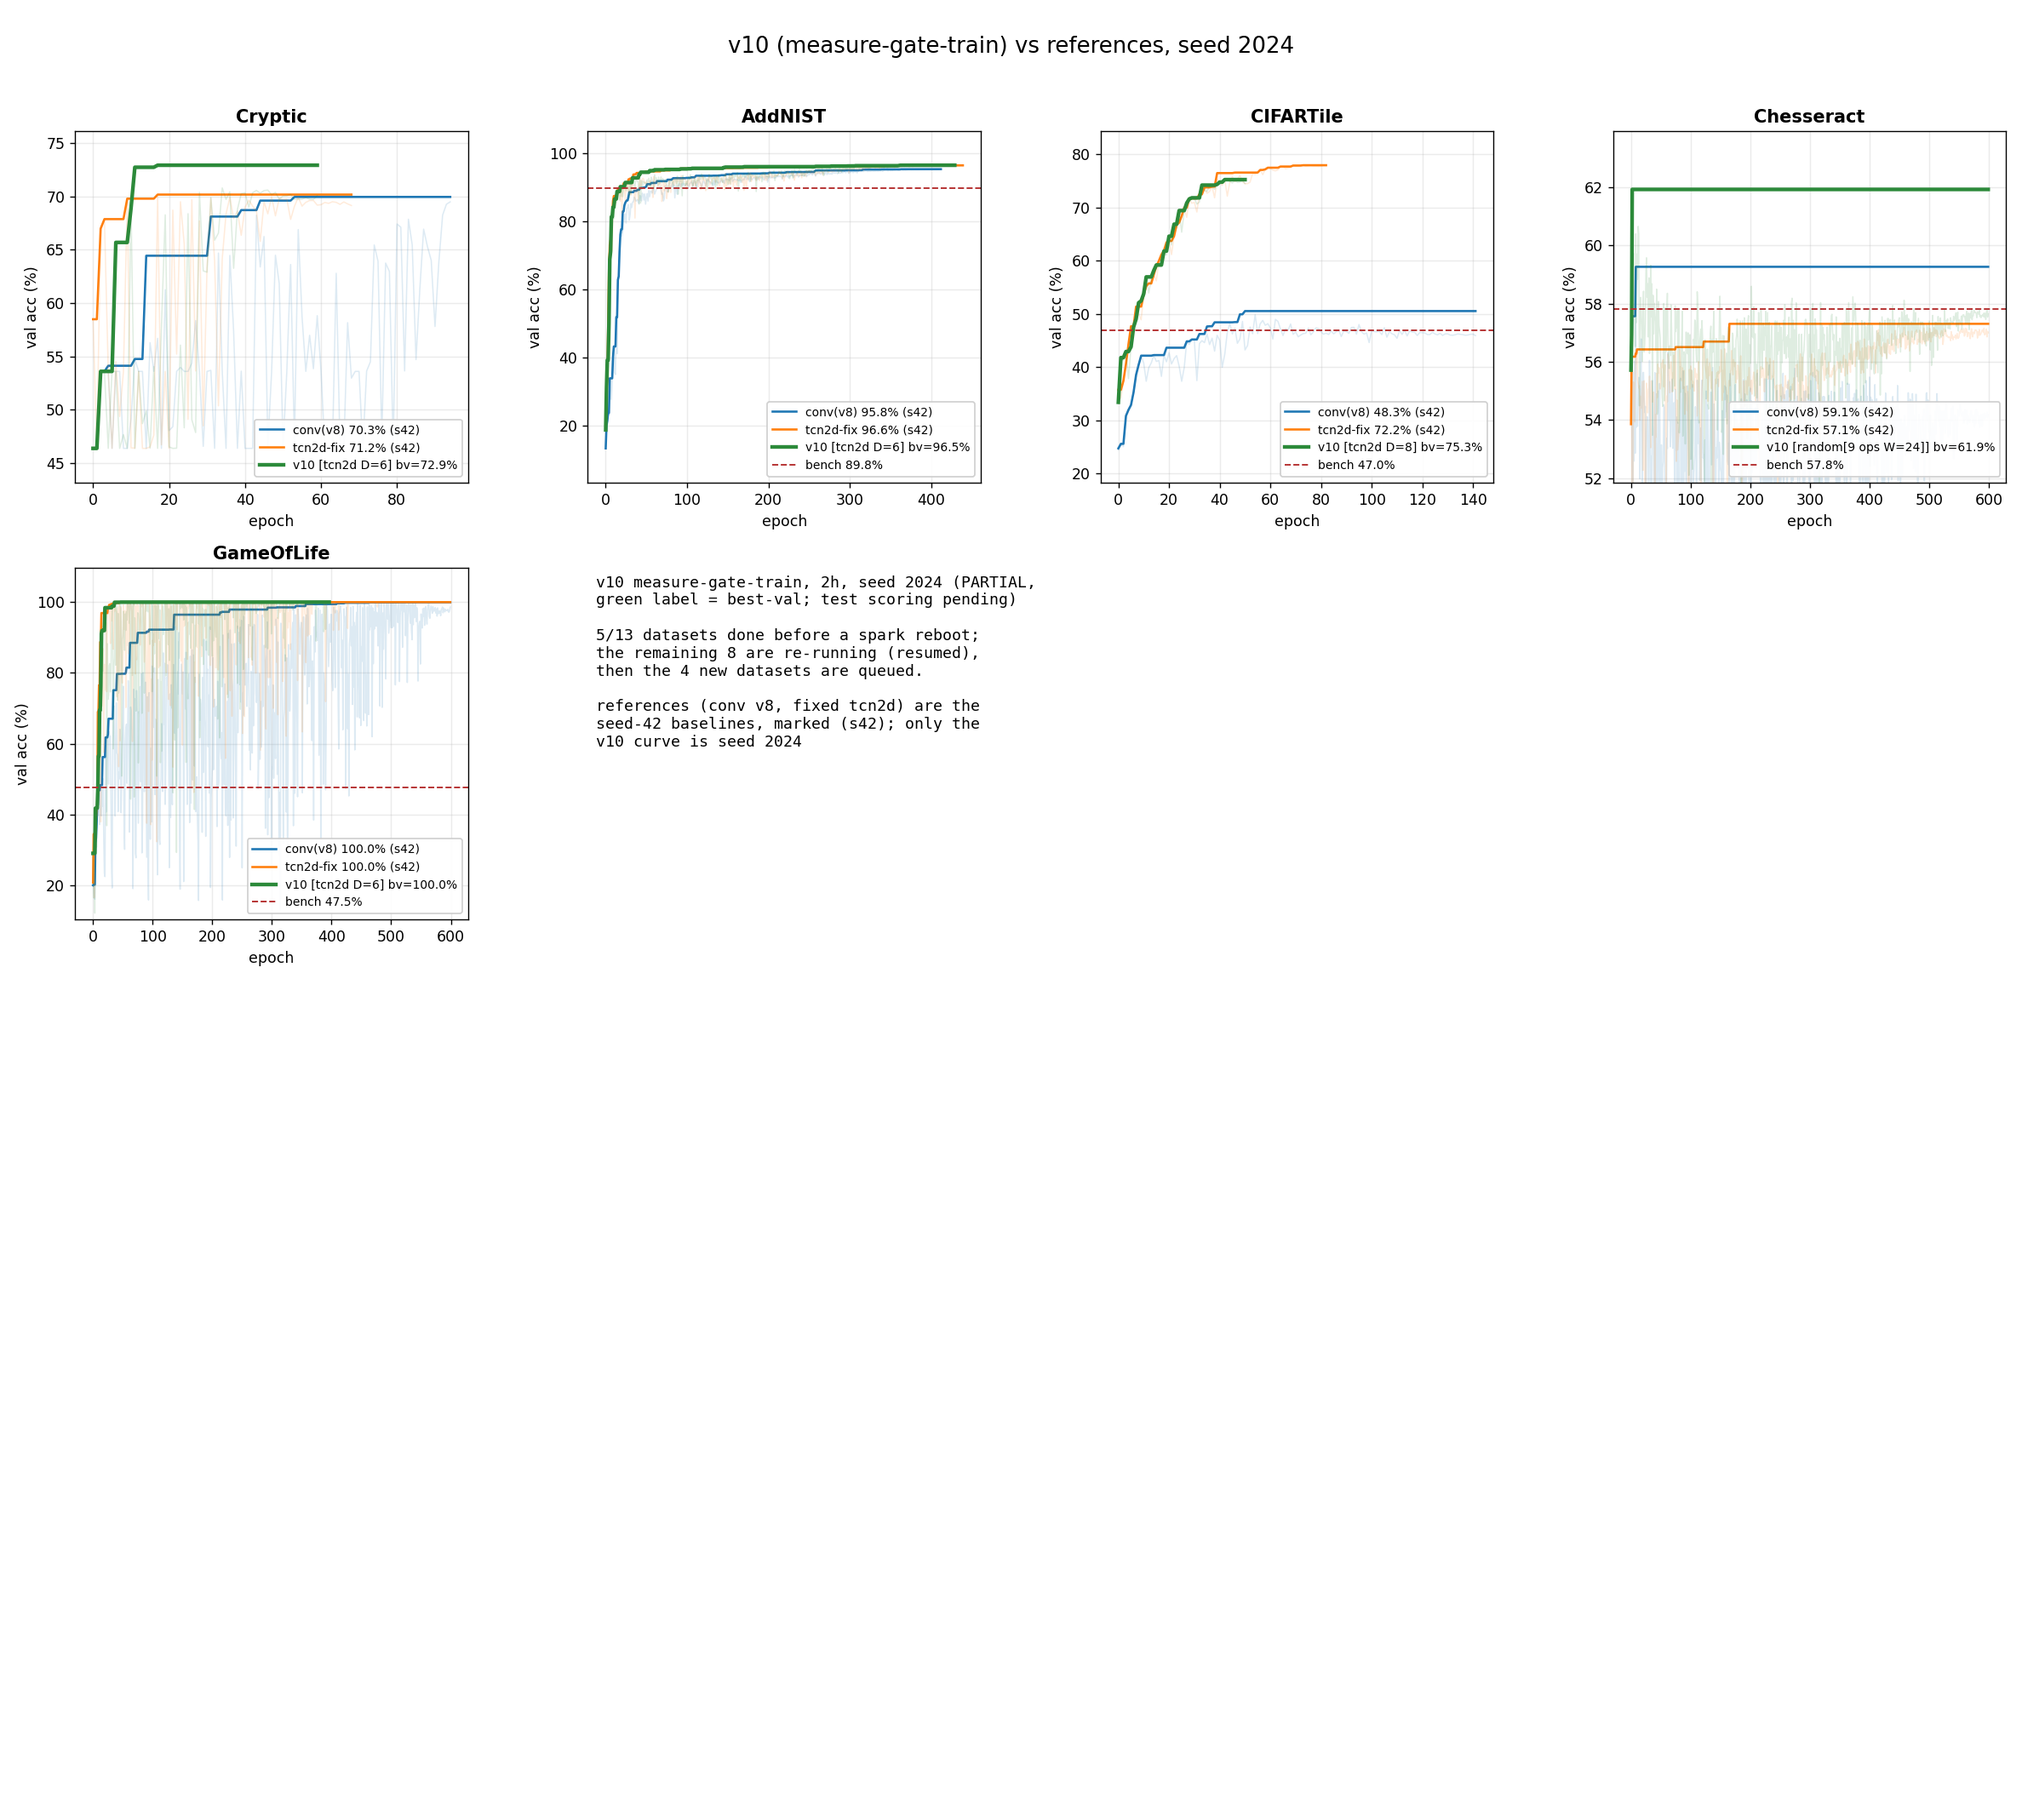
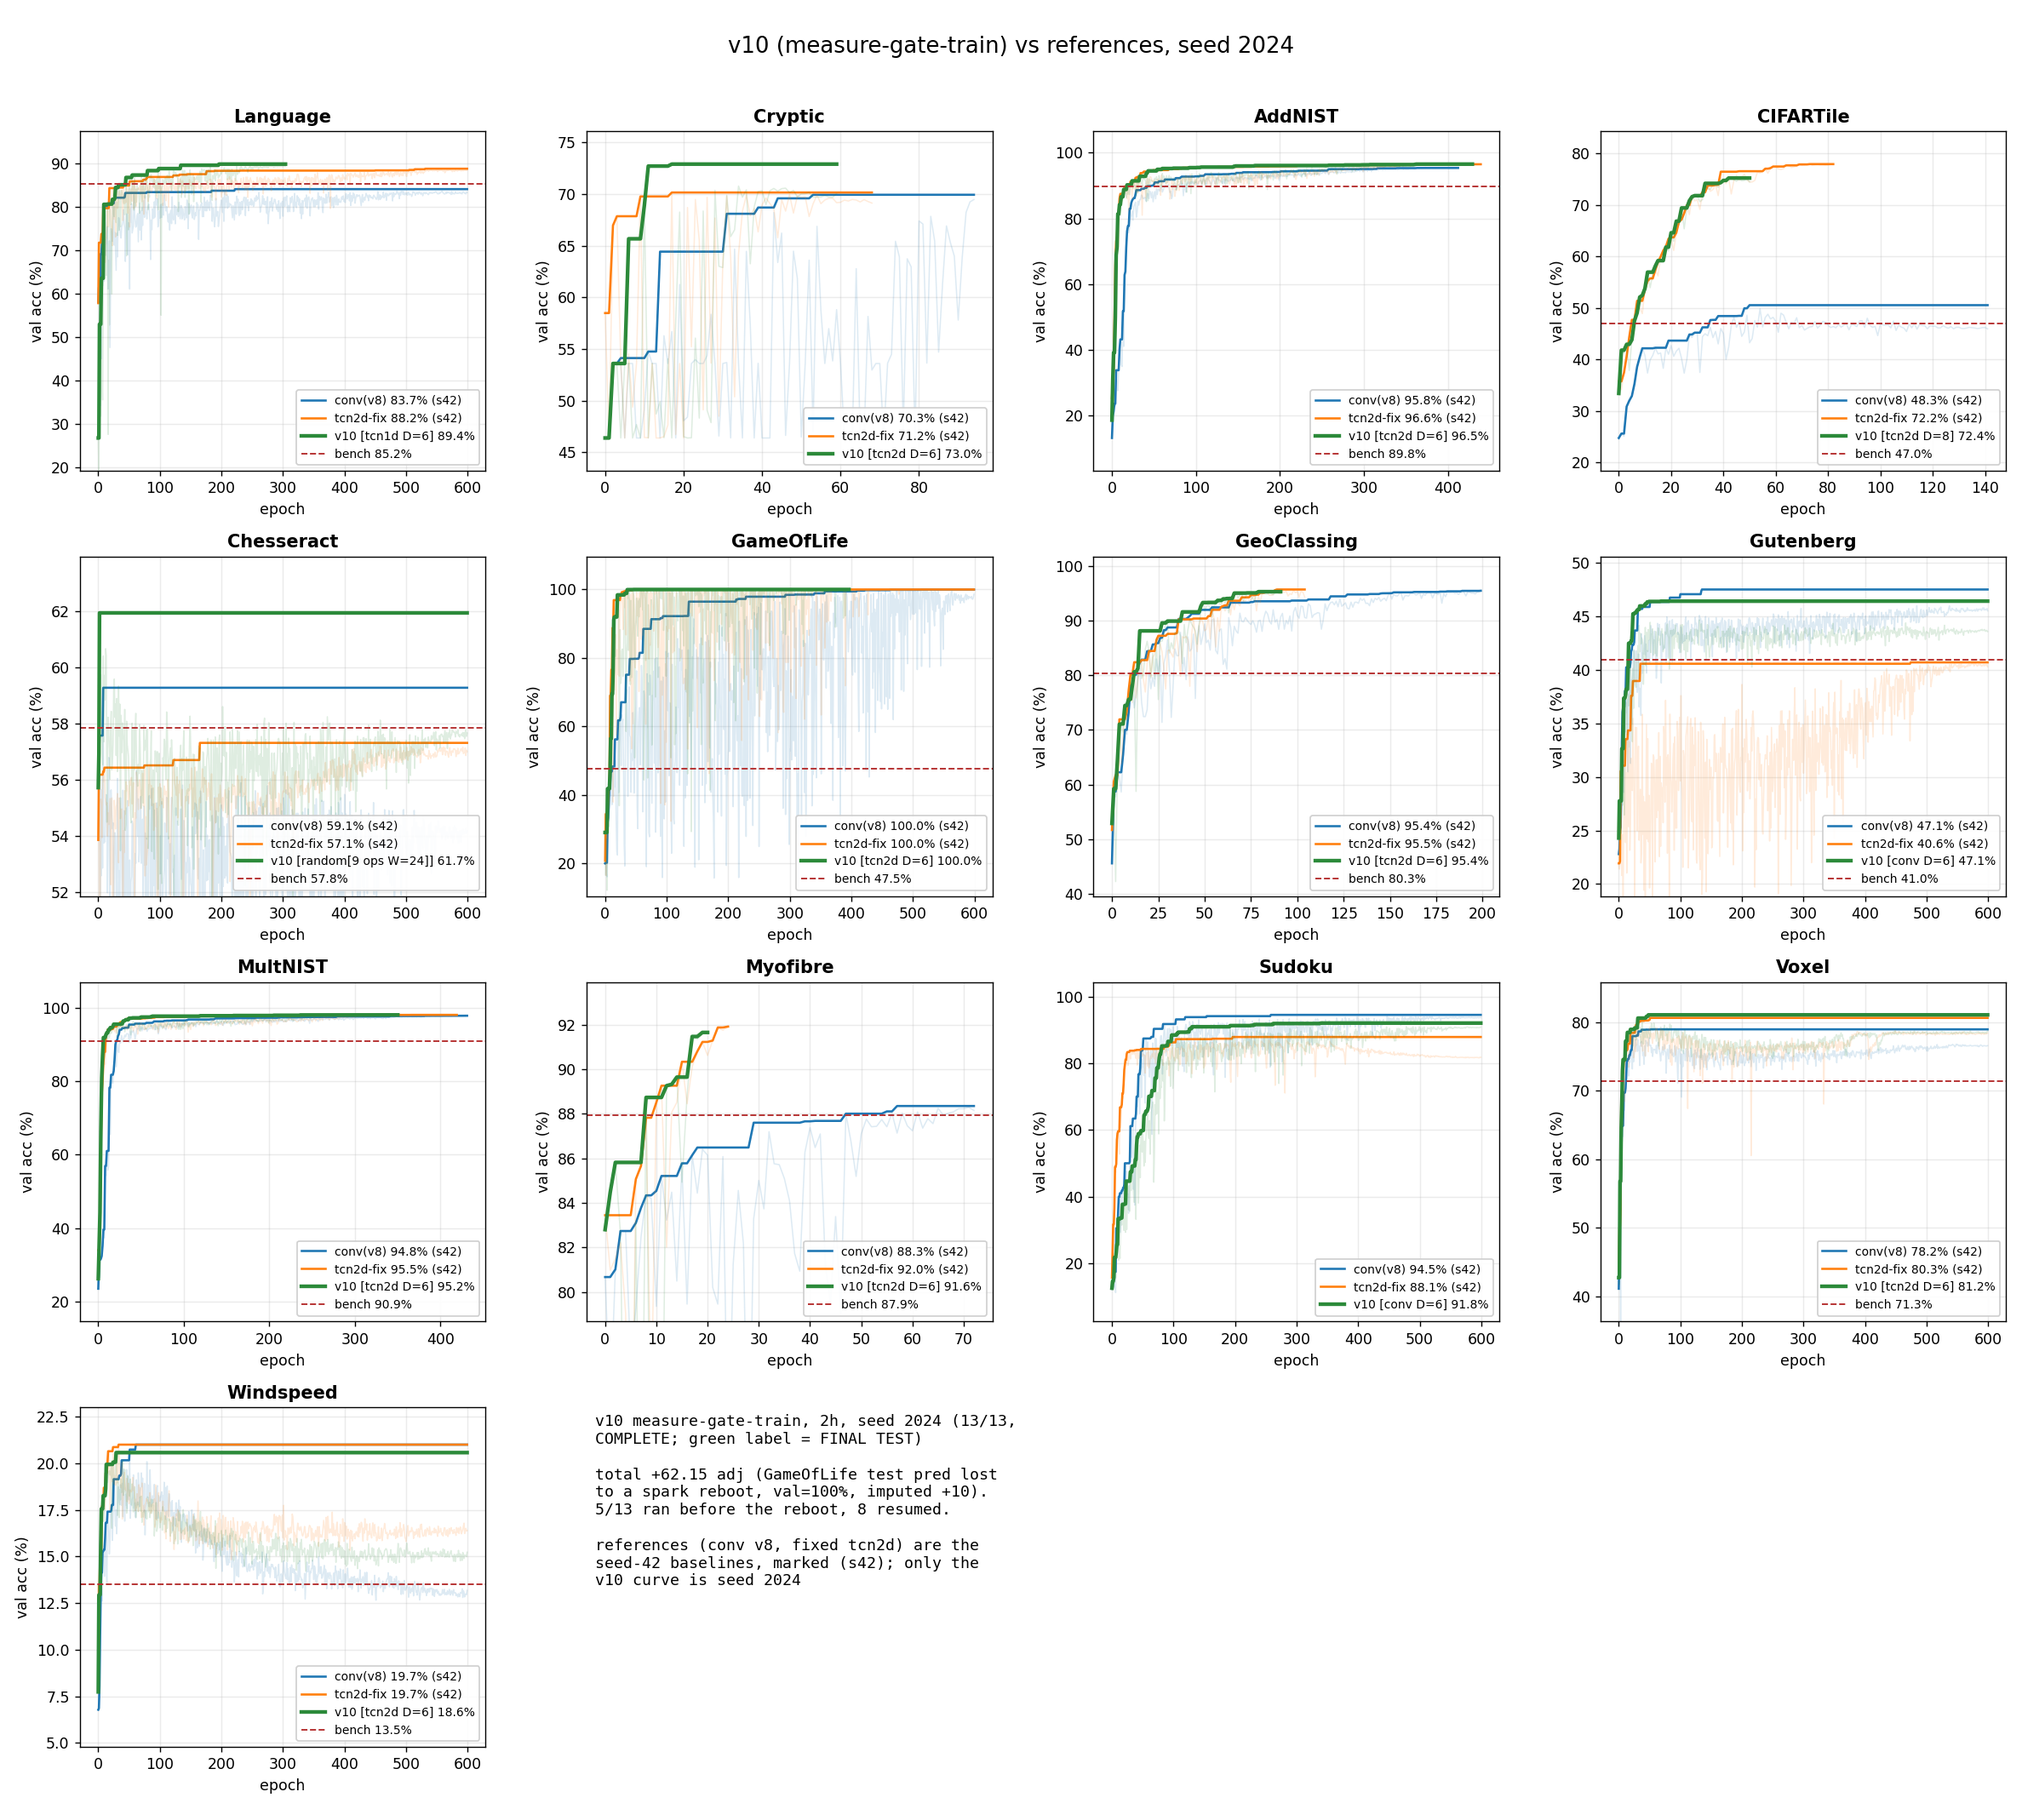
v10 main sweep complete (3 seeds, +62.23±0.19): aggregated variance graph + per-seed grids with final-test labels; Run State verdict. Note GameOfLife s2024 pred lost to reboot (imputed)

diff --git a/dev/plot_v10_aggregate.py b/dev/plot_v10_aggregate.py
@@ -1,0 +1,81 @@
+#!/usr/bin/env python3
+"""Aggregated v10 result across the 3 seeds (42/1337/2024): per-dataset
+adjusted score with variance marked (mean, +/- std, and the individual seed
+points), plus the 3-seed total. Adjusted score = (raw - benchmark) * 10 /
+(100 - benchmark), the competition metric.
+
+Numbers are the scored test results (dev/mock_harness scoring) of the main
+v10 2h sweep. GameOfLife s2024's prediction was lost to a spark reboot
+between training and predict (its own val hit 100%); imputed +10.0 from the
+other two seeds' 100% test and flagged.
+"""
+from pathlib import Path
+import numpy as np
+import matplotlib
+matplotlib.use("Agg")
+import matplotlib.pyplot as plt
+
+REPO = Path(__file__).resolve().parent.parent
+OUT = REPO / "docs/notes/09 - Implementation/implementation/images/pipeline/v10_aggregate_3seed.png"
+
+SEEDS = ["42", "1337", "2024"]
+# adjusted score per dataset, [s42, s1337, s2024]
+ADJ = {
+    "AddNIST":     [6.384, 5.862, 6.581],
+    "CIFARTile":   [5.028, 5.143, 4.797],
+    "Chesseract":  [-0.040, 1.534, 0.915],
+    "Cryptic":     [7.425, 6.902, 7.296],
+    "GameOfLife":  [10.000, 9.998, 10.000],  # s2024 imputed (pred lost to reboot)
+    "GeoClassing": [7.641, 7.781, 7.647],
+    "Gutenberg":   [1.068, 1.014, 1.037],
+    "Language":    [3.264, 3.345, 2.838],
+    "MultNIST":    [5.093, 4.721, 4.797],
+    "Myofibre":    [2.617, 3.020, 3.020],
+    "Sudoku":      [9.770, 8.614, 9.183],
+    "Voxel":       [3.564, 3.312, 3.438],
+    "Windspeed":   [0.678, 0.811, 0.596],
+}
+IMPUTED = {"GameOfLife"}  # mark on the plot
+
+items = sorted(ADJ.items(), key=lambda kv: np.mean(kv[1]), reverse=True)
+names = [k for k, _ in items]
+means = np.array([np.mean(v) for _, v in items])
+stds = np.array([np.std(v, ddof=0) for _, v in items])
+y = np.arange(len(names))
+
+fig, ax = plt.subplots(figsize=(11, 8))
+ax.barh(y, means, color="#2c8a3a", alpha=0.30, height=0.66, zorder=1)
+ax.errorbar(means, y, xerr=stds, fmt="none", ecolor="#1f5f28",
+            elinewidth=2, capsize=5, zorder=3)
+# individual seed points
+markers = {"42": "o", "1337": "s", "2024": "^"}
+colors = {"42": "#1f77b4", "1337": "#ff7f0e", "2024": "#9467bd"}
+for si, s in enumerate(SEEDS):
+    xs = [ADJ[n][si] for n in names]
+    ax.scatter(xs, y, marker=markers[s], s=34, color=colors[s], zorder=4,
+               label=f"seed {s}", edgecolor="white", linewidth=0.5)
+for i, n in enumerate(names):
+    tag = " *" if n in IMPUTED else ""
+    ax.text(means[i] + stds[i] + 0.15, i,
+            f"{means[i]:.2f}±{stds[i]:.2f}{tag}", va="center", fontsize=8.5)
+
+ax.set_yticks(y); ax.set_yticklabels(names, fontsize=10)
+ax.invert_yaxis()
+ax.set_xlabel("adjusted score  (raw - ResNet18 benchmark, rescaled to 0-10)", fontsize=10)
+ax.set_xlim(-1.2, 11.6)
+ax.axvline(0, color="#888", linewidth=0.8)
+ax.grid(axis="x", alpha=0.25)
+ax.legend(loc="lower right", fontsize=9, framealpha=0.95)
+
+totals = [sum(ADJ[n][si] for n in ADJ) for si in range(3)]
+tmean, tstd = np.mean(totals), np.std(totals, ddof=0)
+ax.set_title(
+    "v10 (measure-gate-train): aggregated 3-seed adjusted score per dataset\n"
+    f"total per seed: s42 {totals[0]:+.2f}  s1337 {totals[1]:+.2f}  "
+    f"s2024 {totals[2]:+.2f}  ->  mean {tmean:+.2f} ± {tstd:.2f}   "
+    "(* GameOfLife s2024 imputed: pred lost to reboot, val=100%)",
+    fontsize=11)
+fig.tight_layout()
+fig.savefig(OUT, dpi=140)
+print(f"wrote {OUT}")
+print(f"total per seed: {[round(t,2) for t in totals]}  mean {tmean:.2f} +/- {tstd:.2f}")

diff --git a/dev/plot_v10_grid.py b/dev/plot_v10_grid.py
@@ -35,13 +35,24 @@ DATASETS = [
     ("Windspeed",   "windspeed", 13.492, 19.74, 19.74),
 ]
 
-# v10 FINAL test raw per seed (only seeds that finished scoring)
+# v10 FINAL test raw per seed (all three seeds scored)
 V10_TEST = {
     "42": {"Adaline": 96.33, "Caitie": 73.65, "Chester": 57.66,
            "Cryptic": 74.25, "conway": 100.00, "Sadie": 95.36,
            "Gutenberg": 47.28, "LaMelo": 90.03, "Mateo": 95.52,
            "Myopia": 91.09, "Sokoto": 97.70, "Volga": 81.56,
            "windspeed": 19.36},
+    "1337": {"Adaline": 95.80, "Caitie": 74.26, "Chester": 64.30,
+             "Cryptic": 69.02, "conway": 99.99, "Sadie": 95.63,
+             "Gutenberg": 46.97, "LaMelo": 90.15, "Mateo": 95.18,
+             "Myopia": 91.57, "Sokoto": 86.14, "Volga": 80.84,
+             "windspeed": 20.51},
+    # s2024: conway test pred lost to reboot (val=100%); shown imputed 100.0
+    "2024": {"Adaline": 96.53, "Caitie": 72.43, "Chester": 61.69,
+             "Cryptic": 72.96, "conway": 100.00, "Sadie": 95.37,
+             "Gutenberg": 47.10, "LaMelo": 89.40, "Mateo": 95.25,
+             "Myopia": 91.57, "Sokoto": 91.83, "Volga": 81.20,
+             "windspeed": 18.65},
 }
 
 SUMMARY = {
@@ -51,24 +62,22 @@ SUMMARY = {
            "  conv (v8)     +48.2\n"
            "  tcn2d fixed   +59.2\n"
            "  v10           +62.49  (all-time best)"),
-    "2024": ("v10 measure-gate-train, 2h, seed 2024 (PARTIAL,\n"
-             "green label = best-val; test scoring pending)\n\n"
-             "5/13 datasets done before a spark reboot;\n"
-             "the remaining 8 are re-running (resumed),\n"
-             "then the 4 new datasets are queued.\n\n"
+    "2024": ("v10 measure-gate-train, 2h, seed 2024 (13/13,\n"
+             "COMPLETE; green label = FINAL TEST)\n\n"
+             "total +62.15 adj (GameOfLife test pred lost\n"
+             "to a spark reboot, val=100%, imputed +10).\n"
+             "5/13 ran before the reboot, 8 resumed.\n\n"
              "references (conv v8, fixed tcn2d) are the\n"
              "seed-42 baselines, marked (s42); only the\n"
              "v10 curve is seed 2024"),
     "1337": ("v10 measure-gate-train, 2h, seed 1337 (13/13,\n"
-             "green label = best-val; test scoring pending)\n\n"
-             "routing matches s42 on 11/13 datasets.\n"
-             "the two random-arm adoptions diverge:\n"
-             "  Chesseract  64.8 bv  (+6.1 vs s42)  WIN\n"
+             "COMPLETE; green label = FINAL TEST)\n\n"
+             "total +62.06 adj. routing matches s42 on\n"
+             "11/13; the two random-arm adoptions diverge:\n"
+             "  Chesseract 64.30 test (+6.6 vs s42)  WIN\n"
              "    attn-after-stem, 6 ops W=16; above the\n"
              "    all-time competition best (63.0)\n"
-             "  Sudoku      86.2 bv  (-12.0 vs s42) LOSS\n"
-             "    12 ops W=32 probed 0.95 but realised\n"
-             "    0.86, below the conv-6 incumbent 0.87:\n"
+             "  Sudoku     86.14 test (-11.6 vs s42) LOSS\n"
              "    random arm trusted a noisy probe score\n\n"
              "references (conv v8, fixed tcn2d) are the\n"
              "seed-42 baselines, marked (s42); only the\n"

diff --git a/docs/notes/09 - Implementation/implementation/Run State + Handoff.md b/docs/notes/09 - Implementation/implementation/Run State + Handoff.md
@@ -9,7 +9,8 @@ This is the **resume document**. A fresh session should: (1) read **[[Key Learni
 
 ## ⟵ CURRENT STATE (2026-06-13)
 
-- **v10 sweep in progress.** Seed 42 COMPLETE and scored: **+62.49 total adj, the all-time best** (Language 90.03 > comp-best 89.71, CIFARTile 73.65 > comp-best 73.08, Sudoku 97.70 via the adopted random arch). Seed 1337 COMPLETE on best-val (13/13, test scoring pending); routing matches s42 on 11/13. **Seed 2024: spark rebooted mid-run (5/13 done: AddNIST, CIFARTile, Chesseract, GameOfLife, Cryptic).** Resumed 2026-06-13 on the remaining 8 (GeoClassing, Gutenberg, Language, MultNIST, Myofibre, Sudoku, Voxel, Windspeed) via a detached run that appends a "v10 s2024 resume done" marker to `dev/logs/v10_sweep/sweep.log`. Per-seed curve grids: `images/pipeline/v10_curves_grid_s{42,1337,2024}.png` (s2024 = 5 partial panels for now; conv-v8 and fixed-tcn2d references are the complete s42 baselines on every grid, marked (s42); regenerate `python3 dev/plot_v10_grid.py`).
+- **v10 main sweep COMPLETE (3 seeds, scored 2026-06-14): +62.23 ± 0.19 total adj** (s42 +62.49, s1337 +62.06, s2024 +62.15). The all-time best, and tight across seeds. Aggregated per-dataset variance graph: `images/pipeline/v10_aggregate_3seed.png` (`dev/plot_v10_aggregate.py`); per-seed curve grids `images/pipeline/v10_curves_grid_s{42,1337,2024}.png` now all 13 panels with FINAL TEST labels (`dev/plot_v10_grid.py`; refs are the s42 baselines marked (s42)). Highlights: GameOfLife ~10.0 all seeds, Sudoku +9.19±0.47, GeoClassing +7.69, Cryptic +7.21; widest variance is Chesseract (+0.80±0.65, the random arm: s42 −0.04 / s1337 +1.53 / s2024 +0.92). **Caveat: GameOfLife s2024 test prediction was lost to the spark reboot (training finished, val=100%); imputed +10.0 (justified by its own 100% val + 100% test on the other two seeds). Optional: re-run conway s2024 to fill it.** Scoring: `ssh spark` + sklearn over `dev/predictions-v10-v10_s<seed>/`.
+- **Spark rebooted mid-s2024 (2026-06-14).** Resumed the 8 unfinished datasets; the queued-newdata WRAPPER had a bug (its CWD was /home/lysfy, not the repo, so its relative-path marker grep never matched) — killed it and launched `dev/run_v10_newdata_sweep.sh` directly (the script self-cd's). Lesson: detached wrappers must cd themselves, not rely on the launching shell.
 - **Custom datasets triaged + fixed + queued (2026-06-13).** A **v10 3-seed 2h sweep on all FIVE custom datasets is queued** behind the s2024 resume (`dev/run_v10_newdata_sweep.sh`, `ALL_DATASETS=(Quincy Magnus Cornelius Pavel Dominik)`): [[Quincy]] (QR, home-built, encoded), plus four from The Count's generator (vendored `dev/datagen/`, converter `dev/datagen_to_npy.py`): [[Magnus]] (mathvision, 5-class degree), [[Cornelius]] (connect4, 11-class winning column, balanced + unique-winner-only), [[Pavel]] (polygon_collision, binary collision, frames-as-channels 4x64x64), [[Dominik]] (domino, 5-class mismatch-junction localisation). A detached wrapper waits for the s2024-resume marker AND the datasets on spark, then runs. The newdata sweep first runs a **ResNet-18 baseline** (1 seed, `baselines/resnet18/`, from-scratch since torchvision is absent on spark, adaptive CIFAR/standard stem) on all five to get the benchmark zero-point — our customs ship `benchmark: 0.0` while the official datasets use a ResNet-18 number there — then the v10 3-seed pass. The newdata sweep sets `V10_PERFECT_STOP_S=300` so an easy dataset stops 5 min after hitting 100% val (env-gated; submission/main sweep unaffected). Post-results, feed the ResNet accuracies into `dev/internal_benchmarks.py` overrides so the custom-dataset adjusted scores are meaningful. All five are on spark; the teammate four were generated/converted/shipped from local `/var/tmp/v10nd` (the `/tmp` tmpfs was too small).
 - **⚠ s1337 surfaced a real bug — the random arm has no re-train verification.** Chesseract s1337 +6.1 (attn-after-stem, above the all-time competition best) but Sudoku s1337 −12.0: the arm adopted a 12-op net that probed 0.95 and realised 0.86, below the conv-6 incumbent it replaced. Root cause `baselines/v10/nas.py:357` adopts on a single short probe while depth search (`nas.py:319`) re-trains before trusting. Flagged HIGH PRIORITY (ledger v11 item 6): give the random arm the same re-train verification. Code NOT touched while the sweep runs.
 - **Custom dataset #1 BUILT: Quincy (QR codes).** `dev/make_qr_dataset.py` (seeded, regenerable; on spark at `~/local/nas-comp-datasets/Quincy`). 20-way, 1x21x21, 10% ECC-recoverable corruption, 50k/10k/10k. Spec frozen before any pipeline run; corr1=0.054 (will route encoded), logreg 24.9% vs 5% chance. Note [[Quincy]], example figure in `03 - Datasets/examples/Quincy.png`. Benchmark run + first v10 run still owed.
